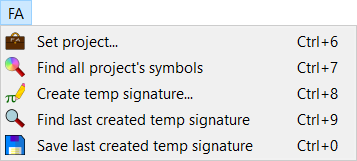
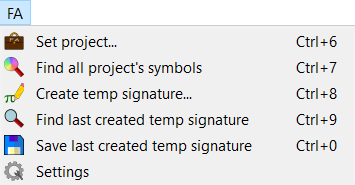
ida_loader: add change-settings action

Changed region(s): [[0.0, 0.0, 1.0, 1.0], [0.8056, 0.8696, 0.9606, 0.9627]]

diff --git a/ida_loader.py b/ida_loader.py
@@ -226,6 +226,47 @@ class IdaLoader(fainterp.FaInterp):
         # which is much faster
         return
 
+    def interactive_settings(self):
+        class SettingsForm(Form):
+            def __init__(self, signatures_root):
+                description = '''
+                <h2>Settings</h2>
+                <div>
+                Here you can change global FA settings.
+                </div>
+                <div>
+                    <a href="https://github.com/doronz88/fa#projects">
+                    For more info</a>
+                </div>
+                '''.format(signatures_root)
+
+                Form.__init__(self,
+                              r"""BUTTON YES* Save
+                              FA Settings
+                              {{FormChangeCb}}
+                              {{StringLabel}}
+                              <Signatures root :{{signaturesRoot}}>
+                              """.format(signatures_root), {
+                                  'FormChangeCb':
+                                      Form.FormChangeCb(self.OnFormChange),
+                                  'signaturesRoot':
+                                      Form.DirInput(value=signatures_root),
+                                  'StringLabel':
+                                      Form.StringLabel(description,
+                                                       tp=Form.FT_HTML_LABEL),
+                              })
+                self.__n = 0
+
+            def OnFormChange(self, fid):
+                return 1
+
+        f = SettingsForm(self._signatures_root)
+        f, args = f.Compile()
+        ok = f.Execute()
+        if ok == 1:
+            self.set_signatures_root(f.signaturesRoot.value, save=True)
+        f.Free()
+
     def interactive_set_project(self):
         class SetProjectForm(Form):
             def __init__(self, signatures_root, projects, current):
@@ -296,12 +337,14 @@ def add_action(action):
                 ida_kernwin.AST_DISABLE_FOR_WIDGET
 
     print("Creating a custom icon from raw data!")
-    icon_full_filename = os.path.join(
-        os.path.dirname(os.path.abspath(__file__)),
-        'res', 'icons', action.icon_filename)
-    with open(icon_full_filename, 'rb') as f:
-        icon_data = f.read()
-    act_icon = ida_kernwin.load_custom_icon(data=icon_data, format="png")
+    act_icon = -1
+    if action.icon_filename:
+        icon_full_filename = os.path.join(
+            os.path.dirname(os.path.abspath(__file__)),
+            'res', 'icons', action.icon_filename)
+        with open(icon_full_filename, 'rb') as f:
+            icon_data = f.read()
+        act_icon = ida_kernwin.load_custom_icon(data=icon_data, format="png")
 
     act_name = action.name
 
@@ -371,6 +414,12 @@ def load_ui():
                handler=fa_instance.prompt_save_signature,
                label='Save last created temp signature',
                hotkey='Ctrl+0'),
+
+        Action(name='fa:settings',
+               icon_filename='settings.png',
+               handler=fa_instance.interactive_settings,
+               label='Settings',
+               hotkey=None),
     ]
 
     # init toolbar

diff --git a/fa/fainterp.py b/fa/fainterp.py
@@ -30,6 +30,7 @@ class FaInterp:
         self.history = []
         self.checkpoints = {}
         self.endianity = '<'
+        self._config_path = config_path
 
         if (config_path is not None) and (os.path.exists(config_path)):
             config = ConfigParser()
@@ -41,8 +42,16 @@ class FaInterp:
     def set_input(self, input_):
         pass
 
-    def set_signatures_root(self, path):
+    def set_signatures_root(self, path, save=False):
+        self.log('signatures root: {}'.format(path))
         self._signatures_root = path
+
+        if save:
+            with open(self._config_path, 'wt') as f:
+                config = ConfigParser()
+                config.add_section('global')
+                config.set('global', 'signatures_root', path)
+                config.write(f)
 
     def set_project(self, project):
         self._project = project
